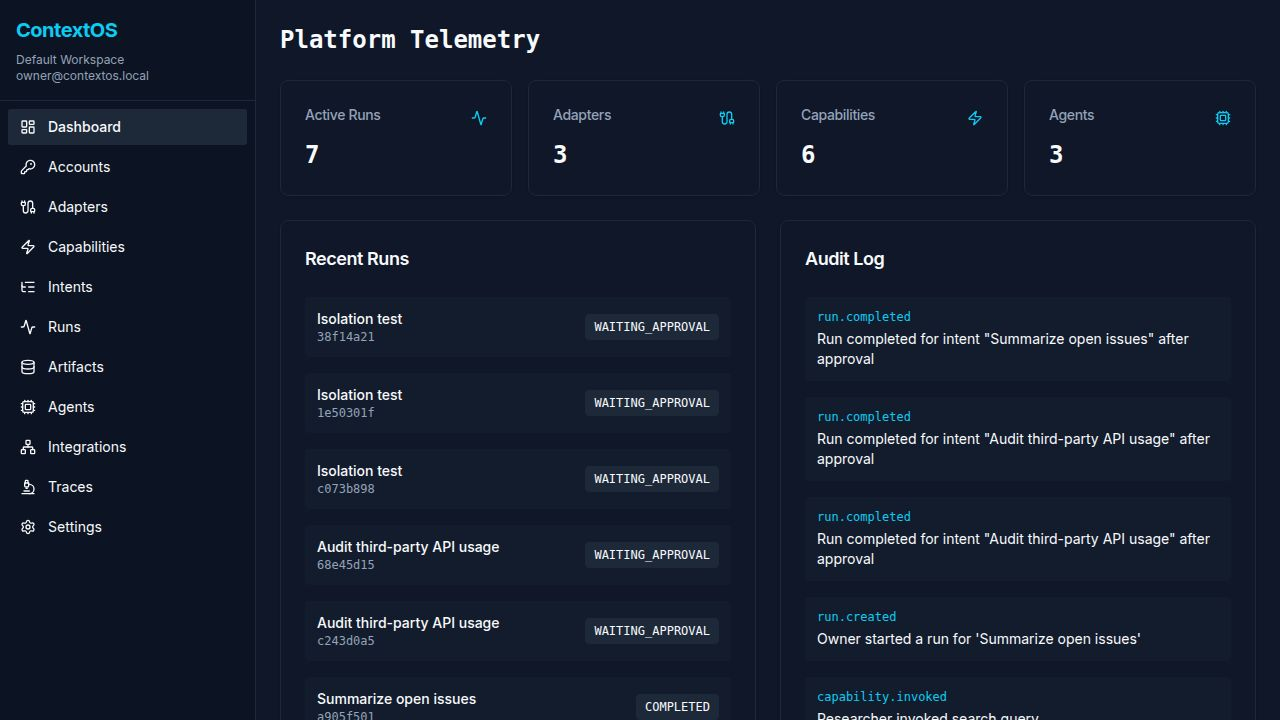
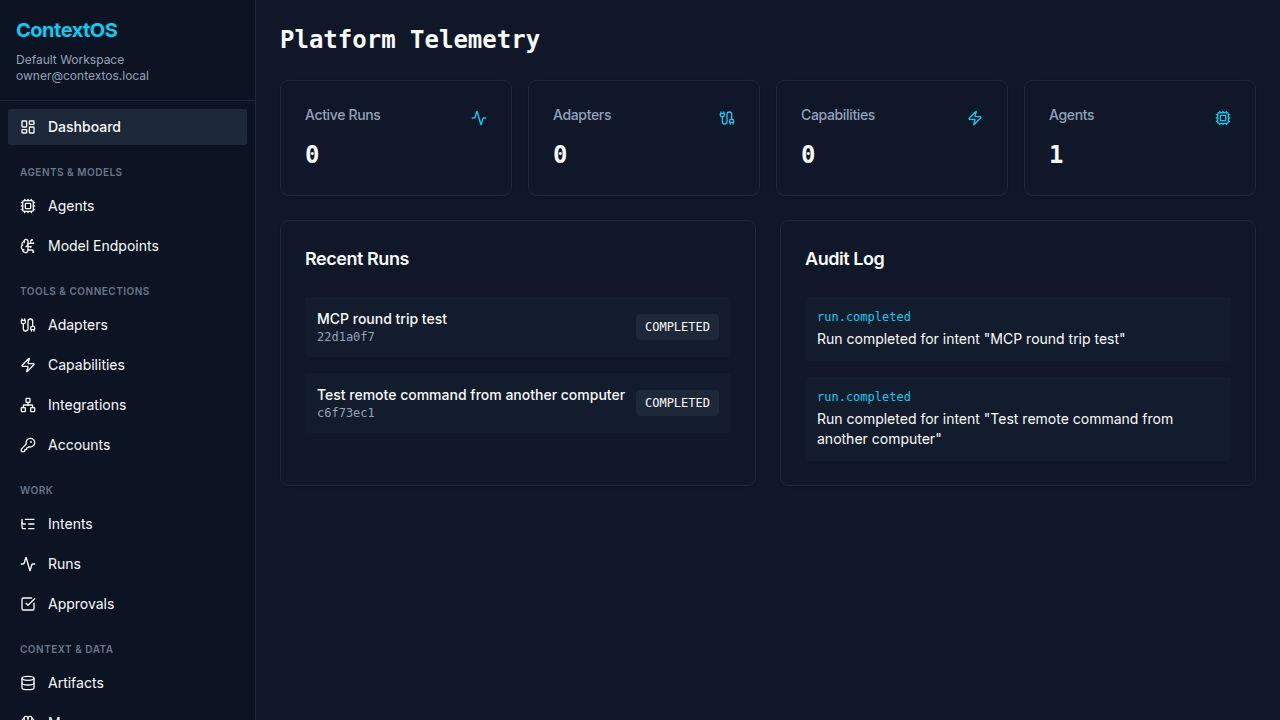
Surface live-vs-stub model usage per agent/model call in traces
Task #7: Show whether a run used a real model or the simulated stub.

Previously stub-vs-live usage was only on agent_runs.used_fallback and
never on the per-observation model_call metrics nor in the UI, so users
couldn't tell which agents hit a real endpoint vs the deterministic stub.

Changes:
- Schema: added `used_stub` boolean (default false) to observation_metrics
  (lib/db/src/schema/observability.ts); applied via drizzle-kit push.
- Backend: threaded usedStub through the metrics shape in
  observability.ts (recordObservation) and serialize.ts
  (serializeObservation metrics block); runEngine.ts now passes
  result.usedStub on both the agent_run and model_call observations.
- API contract: added `usedStub` to the ObservationMetric schema in
  openapi.yaml and regenerated the react client + zod types.
- UI: trace-detail.tsx renders an amber "Stub" / green "Live" badge on
  agent_run and model_call nodes; run-detail.tsx renders the same badge
  on each agent run (driven by existing usedFallback field).

Verified end-to-end: started a fresh run (no endpoint configured), API
returned usedStub=true on agent_run/model_call observations, and both
the trace tree and run detail show the STUB badge. Typecheck passes for
db, api-server, and contextos.

Replit-Task-Id: d0b17dee-7d18-4500-920b-a96de9386ea8

diff --git a/artifacts/contextos/src/pages/run-detail.tsx b/artifacts/contextos/src/pages/run-detail.tsx
@@ -128,7 +128,23 @@ export function RunDetail() {
               <div key={ar.id} className="bg-card border border-border/50 p-3 rounded-lg text-sm">
                 <div className="flex justify-between items-center mb-1">
                   <span className="font-medium">{ar.agentName}</span>
-                  <span className="text-xs font-mono bg-muted px-2 rounded uppercase">{ar.status}</span>
+                  <div className="flex items-center gap-2">
+                    {ar.usedFallback !== undefined && (
+                      <span
+                        className={`text-[10px] font-mono px-2 rounded uppercase tracking-wide ${
+                          ar.usedFallback
+                            ? 'bg-amber-500/10 text-amber-500 border border-amber-500/30'
+                            : 'bg-green-500/10 text-green-500 border border-green-500/30'
+                        }`}
+                        title={ar.usedFallback
+                          ? 'This agent ran against the deterministic simulated stub (no live model endpoint was reached).'
+                          : 'This agent ran against a real configured model endpoint.'}
+                      >
+                        {ar.usedFallback ? 'Stub' : 'Live'}
+                      </span>
+                    )}
+                    <span className="text-xs font-mono bg-muted px-2 rounded uppercase">{ar.status}</span>
+                  </div>
                 </div>
                 <div className="text-xs text-muted-foreground uppercase font-mono mb-2">{ar.role}</div>
                 <div className="text-xs text-muted-foreground truncate">{ar.task}</div>

diff --git a/artifacts/contextos/src/pages/trace-detail.tsx b/artifacts/contextos/src/pages/trace-detail.tsx
@@ -53,6 +53,20 @@ export function TraceDetail() {
           </div>
           
           <div className="flex items-center gap-4 text-xs font-mono text-muted-foreground">
+             {(obs.type === 'model_call' || obs.type === 'agent_run') && obs.metrics?.usedStub !== undefined && (
+               <span
+                 className={`px-2 py-0.5 rounded uppercase tracking-wide text-[10px] font-medium ${
+                   obs.metrics.usedStub
+                     ? 'bg-amber-500/10 text-amber-500 border border-amber-500/30'
+                     : 'bg-green-500/10 text-green-500 border border-green-500/30'
+                 }`}
+                 title={obs.metrics.usedStub
+                   ? 'Output was produced by the deterministic simulated stub (no live model endpoint was reached).'
+                   : 'Output came from a real configured model endpoint.'}
+               >
+                 {obs.metrics.usedStub ? 'Stub' : 'Live'}
+               </span>
+             )}
              {obs.metrics?.latencyMs !== undefined && (
                <div className="flex items-center gap-1"><Clock className="w-3 h-3"/> {obs.metrics.latencyMs}ms</div>
              )}

diff --git a/artifacts/api-server/src/lib/runEngine.ts b/artifacts/api-server/src/lib/runEngine.ts
@@ -818,7 +818,7 @@ async function runAgent(args: RunAgentArgs): Promise<{
     input: { task: args.task },
     output: { content: result.content.slice(0, 200) },
     durationMs: result.latencyMs,
-    metrics: { latencyMs: result.latencyMs, totalTokens: result.totalTokens, costUsdMicros: result.costUsdMicros },
+    metrics: { latencyMs: result.latencyMs, totalTokens: result.totalTokens, costUsdMicros: result.costUsdMicros, usedStub: result.usedStub },
   });
 
   await recordObservation({
@@ -841,6 +841,7 @@ async function runAgent(args: RunAgentArgs): Promise<{
       costUsdMicros: result.costUsdMicros,
       timeToFirstTokenMs: result.timeToFirstTokenMs,
       finishReason: result.finishReason,
+      usedStub: result.usedStub,
     },
   });
 

diff --git a/artifacts/api-server/src/lib/observability.ts b/artifacts/api-server/src/lib/observability.ts
@@ -71,6 +71,7 @@ interface RecordObservationArgs {
     costUsdMicros?: number;
     timeToFirstTokenMs?: number;
     finishReason?: string;
+    usedStub?: boolean;
   };
 }
 
@@ -112,6 +113,7 @@ export async function recordObservation(
       costUsdMicros: args.metrics.costUsdMicros ?? 0,
       timeToFirstTokenMs: args.metrics.timeToFirstTokenMs ?? null,
       finishReason: args.metrics.finishReason ?? null,
+      usedStub: args.metrics.usedStub ?? false,
     });
   }
 

diff --git a/artifacts/api-server/src/lib/serialize.ts b/artifacts/api-server/src/lib/serialize.ts
@@ -522,6 +522,7 @@ export function serializeObservation(
           costUsdMicros: metric.costUsdMicros,
           timeToFirstTokenMs: metric.timeToFirstTokenMs,
           finishReason: metric.finishReason,
+          usedStub: metric.usedStub,
         }
       : undefined,
     startedAt: o.startedAt ?? null,

diff --git a/lib/db/src/schema/observability.ts b/lib/db/src/schema/observability.ts
@@ -100,6 +100,7 @@ export const observationMetricsTable = pgTable(
     costUsdMicros: integer("cost_usd_micros").notNull().default(0),
     timeToFirstTokenMs: integer("time_to_first_token_ms"),
     finishReason: text("finish_reason"),
+    usedStub: boolean("used_stub").notNull().default(false),
     extraJson: jsonb("extra_json").$type<Record<string, unknown>>(),
     createdAt: timestamp("created_at", { withTimezone: true })
       .notNull()